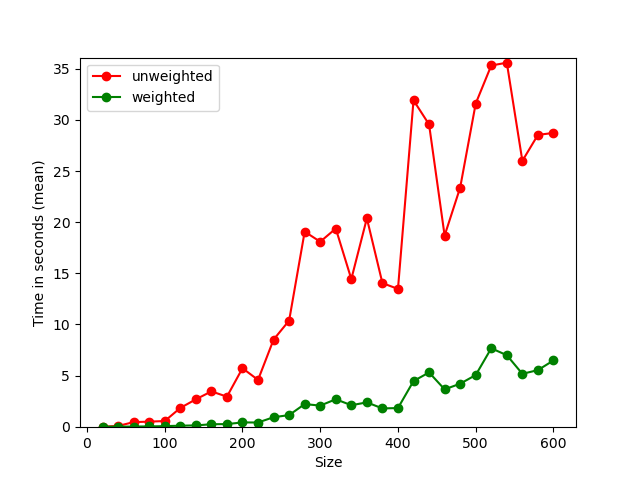
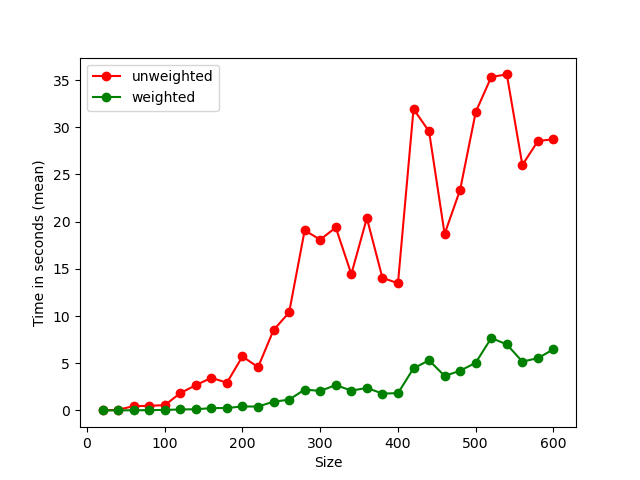
Aggiunto modulo plot_utility.py

diff --git a/plotter.py b/plotter.py
@@ -1,8 +1,10 @@
 import numpy
-import matplotlib.pyplot as plt
 import constants as c
 from utils.result_utility import ResultFileManager
 import os
+from utils.plot_utility import percentageChange
+from utils.plot_utility import saveResultGraph
+from utils.plot_utility import saveResultBar
 
 resultManager = ResultFileManager(c.RESULTS_DIR)
 
@@ -17,19 +19,8 @@ weightedMeanSteps = resultManager.loadResult('weighted_mean_steps.txt')
 unweightedMeanTimes = resultManager.loadResult('unweighted_mean_times.txt')
 weightedMeanTimes = resultManager.loadResult('weighted_mean_times.txt')
 
-timesPercentageChange = []
-stepsPercentageChange = []
-
-for i in range(len(sizes)):
-    change = (unweightedMeanTimes[i] - weightedMeanTimes[i])/(unweightedMeanTimes[i])
-    timesPercentageChange.insert(i, change*100)
-
-for i in range(len(sizes)):
-    change = (unweightedMeanSteps[i] - weightedMeanSteps[i]) / (unweightedMeanSteps[i])
-    stepsPercentageChange.insert(i, change * 100)
-
-meanTimesPC = numpy.mean(timesPercentageChange)
-meanStepsPC = numpy.mean(stepsPercentageChange)
+meanTimesPC = percentageChange(len(sizes), unweightedMeanTimes, weightedMeanTimes) # numpy.mean(timesPercentageChange)
+meanStepsPC = percentageChange(len(sizes), unweightedMeanSteps, weightedMeanSteps) # numpy.mean(stepsPercentageChange)
 
 print('Mean execution times percentage change ', meanTimesPC)
 print('Mean number of steps percentage change: ', meanStepsPC)
@@ -38,31 +29,16 @@ barNames = ['Unweighted Solved', 'Unweighted Unsolved', 'Weighted Solved', 'Weig
 solvedData = [unweightedSolved, unweightedUnsolved, weightedSolved, weightedUnsolved]
 barColors = ['red', 'maroon', 'green', 'darkgreen']
 
-plt.figure(0)
-plt.plot(sizes, unweightedMeanTimes, 'r', label='unweighted', marker='o')
-plt.plot(sizes, weightedMeanTimes, 'g', label='weighted', marker='o')
-plt.ylim(-0.05, numpy.max(unweightedMeanTimes) + 0.5)
-plt.xlabel('Size')
-plt.ylabel('Time in seconds (mean)')
-plt.legend(loc='best')
-path = os.path.join(c.PLOTS_DIR, 'mean_times.png')
-plt.savefig(path)
+graphLabels = ['unweighted', 'weighted']
+graphColors = ['red', 'green']
+graphMarkers = ['o', 'o']
 
-plt.figure(1)
-plt.plot(sizes, unweightedMeanSteps, 'r', label='unweighted', marker='o')
-plt.plot(sizes, weightedMeanSteps, 'g', label='weighted', marker='o')
-plt.xlabel('Size')
-plt.ylabel('Number of steps (mean)')
-plt.legend(loc='best')
-path = os.path.join(c.PLOTS_DIR, 'mean_steps.png')
-plt.savefig(path)
+saveResultGraph(numpy.matrix([sizes, sizes]), numpy.matrix([unweightedMeanTimes, weightedMeanTimes]),
+                labels=graphLabels, colors=graphColors, xlabel='Size', ylabel='Time in seconds (mean)',
+                markers=graphMarkers, fileName='mean_times.png')
 
-plt.figure(2)
-plt.bar(1, solvedData[0], color=barColors[0], width=0.5, label=barNames[0])
-plt.bar(2, solvedData[1], color=barColors[1], width=0.5, label=barNames[1])
-plt.bar(3, solvedData[2], color=barColors[2], width=0.5, label=barNames[2])
-plt.bar(4, solvedData[3], color=barColors[3], width=0.5, label=barNames[3])
-plt.xticks([])
-plt.legend(loc='best')
-path = os.path.join(c.PLOTS_DIR, 'solved_bar_graph.png')
-plt.savefig(path)
+saveResultGraph(numpy.matrix([sizes, sizes]), numpy.matrix([unweightedMeanSteps, weightedMeanSteps]),
+                labels=graphLabels, colors=graphColors, xlabel='Size', ylabel='Number of steps (mean)',
+                markers=graphMarkers, fileName='mean_steps.png')
+
+saveResultBar(solvedData, colors=barColors, names=barNames, fileName='solved_bar_graph.png')

diff --git a/utils/plot_utility.py b/utils/plot_utility.py
@@ -1,0 +1,34 @@
+import numpy
+import matplotlib.pyplot as plt
+import os
+import constants as c
+
+
+def percentageChange(nElements, previous, current):
+    valuesPercentageChange = []
+    for i in range(nElements):
+        change = (previous[i] - current[i]) / (previous[i])
+        valuesPercentageChange.insert(i, change * 100)
+    return numpy.mean(valuesPercentageChange)
+
+
+def saveResultGraph(x, y, labels, xlabel, ylabel, fileName, colors, markers):
+    path = os.path.join(c.PLOTS_DIR, fileName)
+    for i in range(x.shape[0]):
+        x_data = x[i].tolist()[0]
+        y_data = y[i].tolist()[0]
+        plt.plot(x_data, y_data, color=colors[i], label=labels[i], marker=markers[i])
+    plt.xlabel(xlabel)
+    plt.ylabel(ylabel)
+    plt.legend(loc='best')
+    plt.savefig(path)
+    plt.clf()
+    plt.cla()
+
+def saveResultBar(data, colors, names, fileName):
+    path = os.path.join(c.PLOTS_DIR, fileName)
+    for i in range(len(data)):
+        plt.bar(i, data[i], color=colors[i], width=0.5, label=names[i])
+    plt.xticks([])
+    plt.legend(loc='best')
+    plt.savefig(path)
